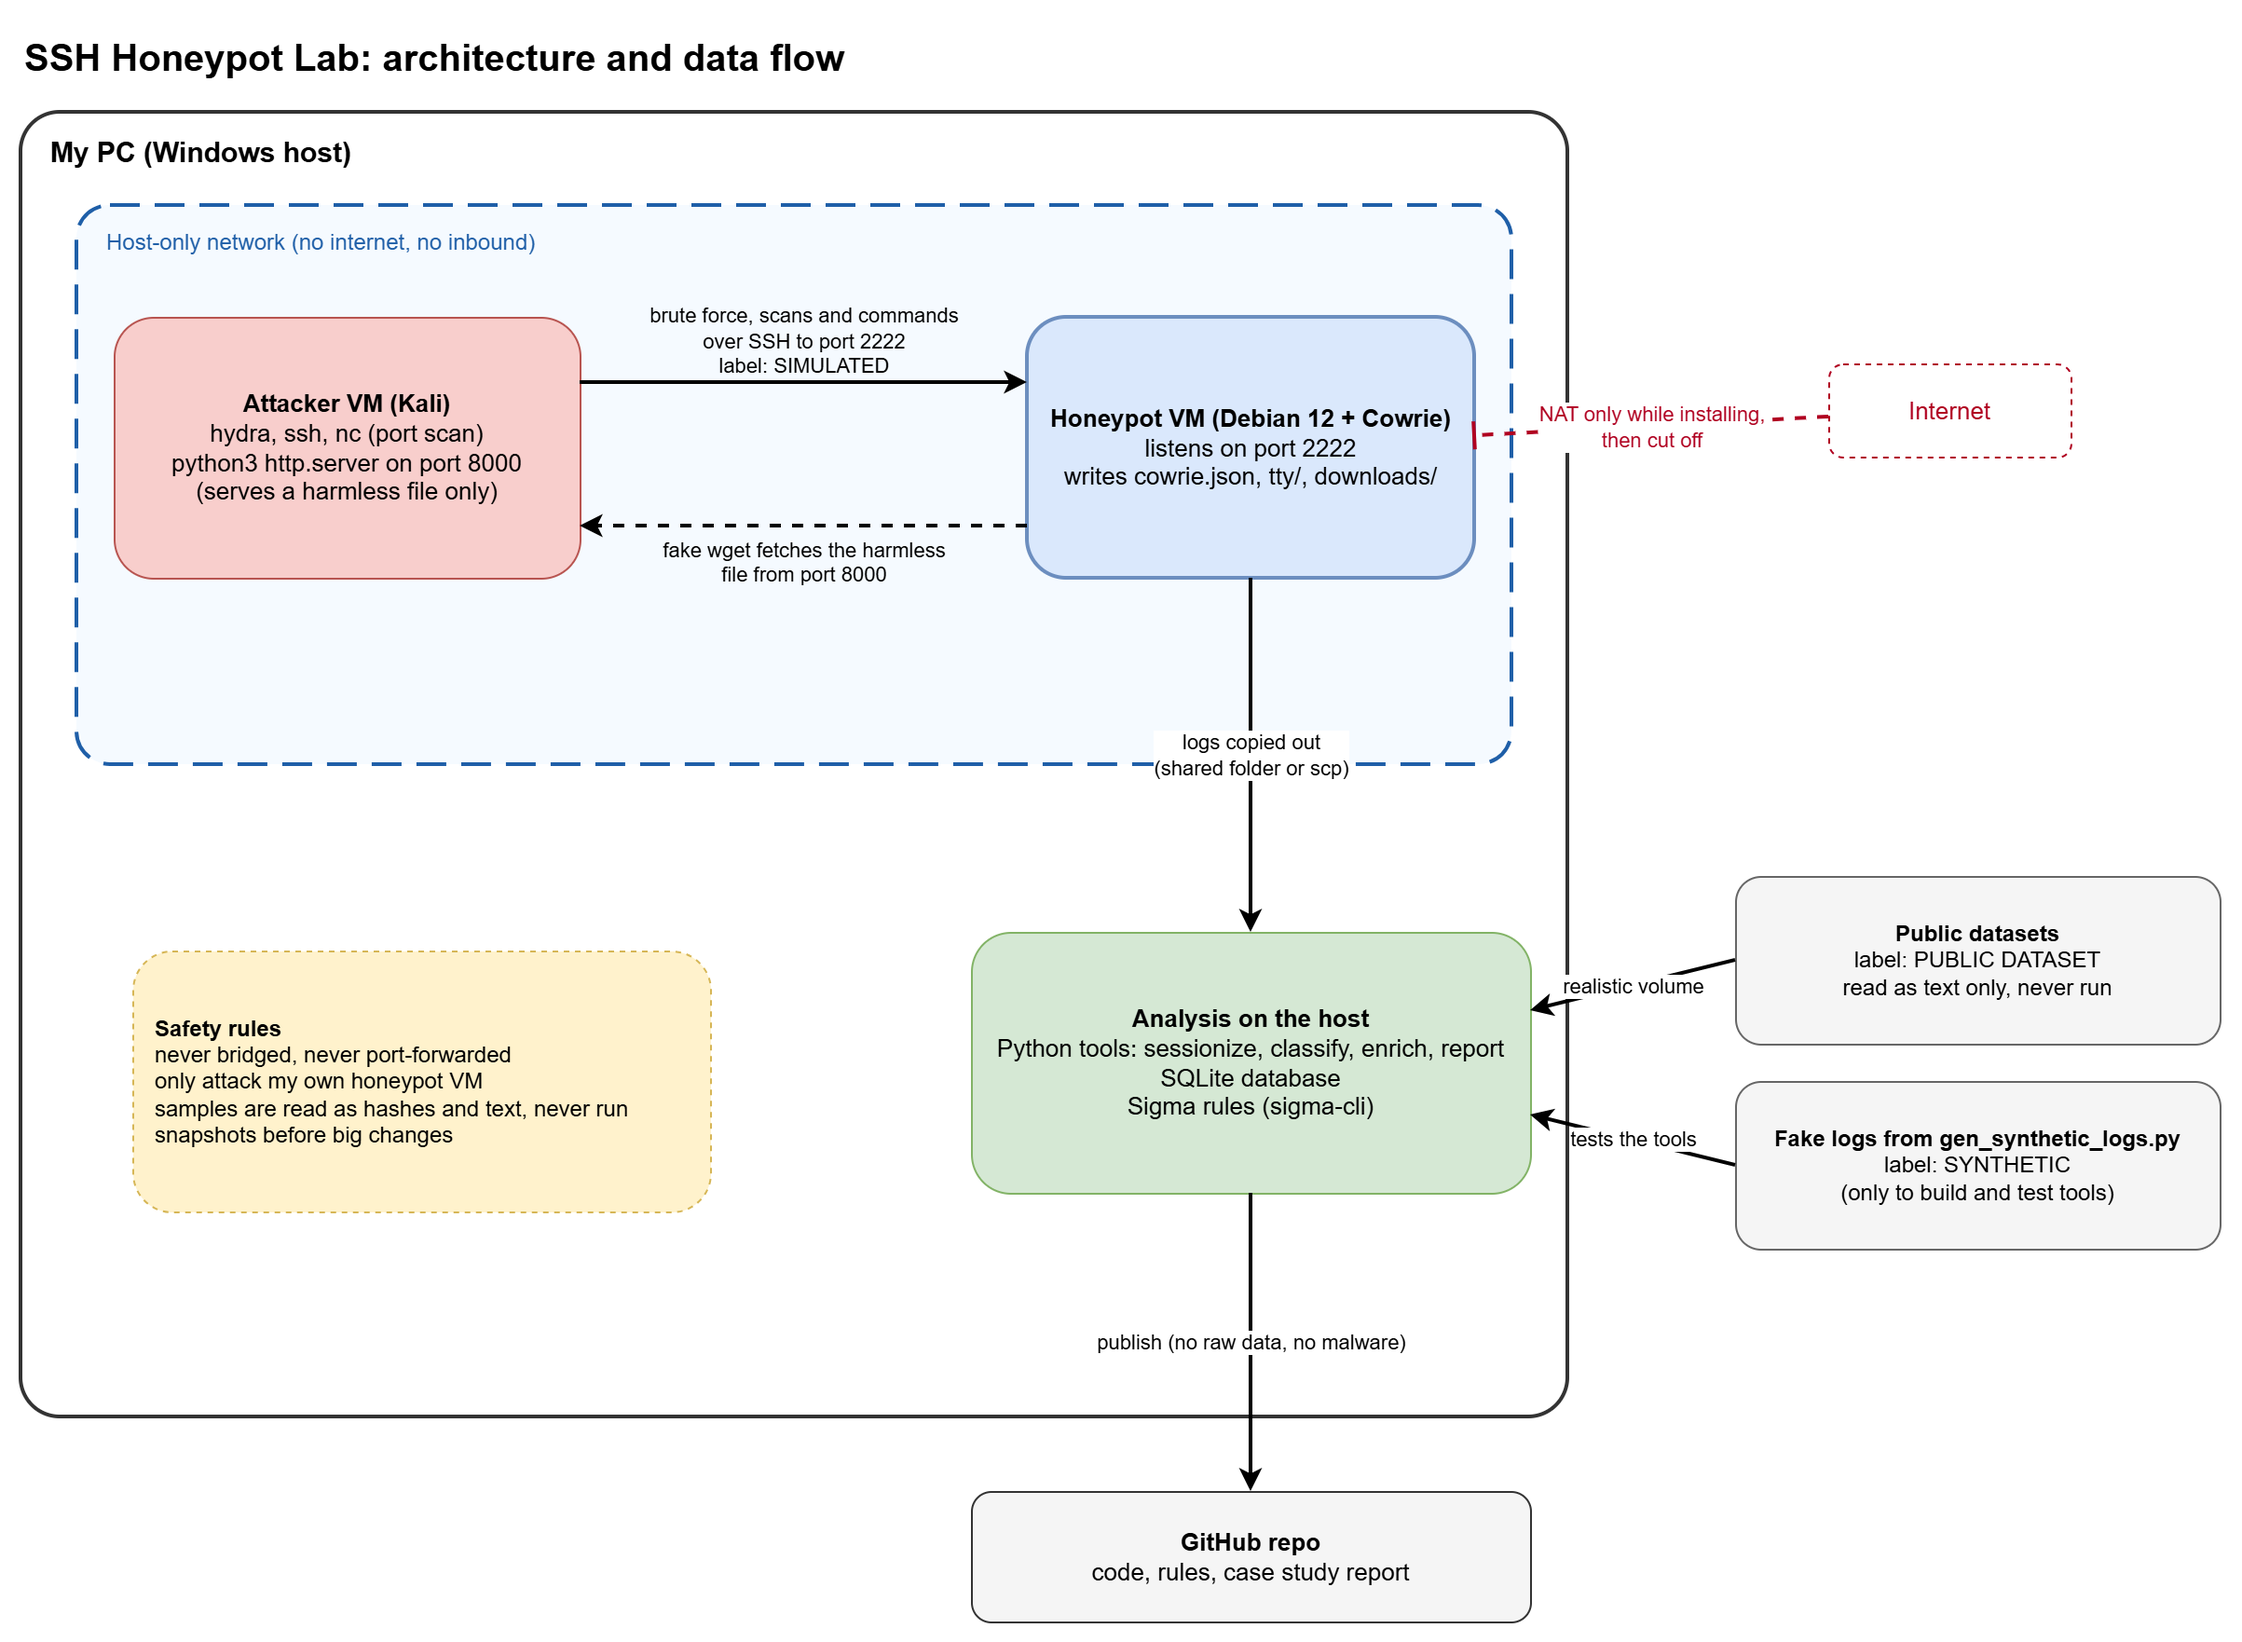
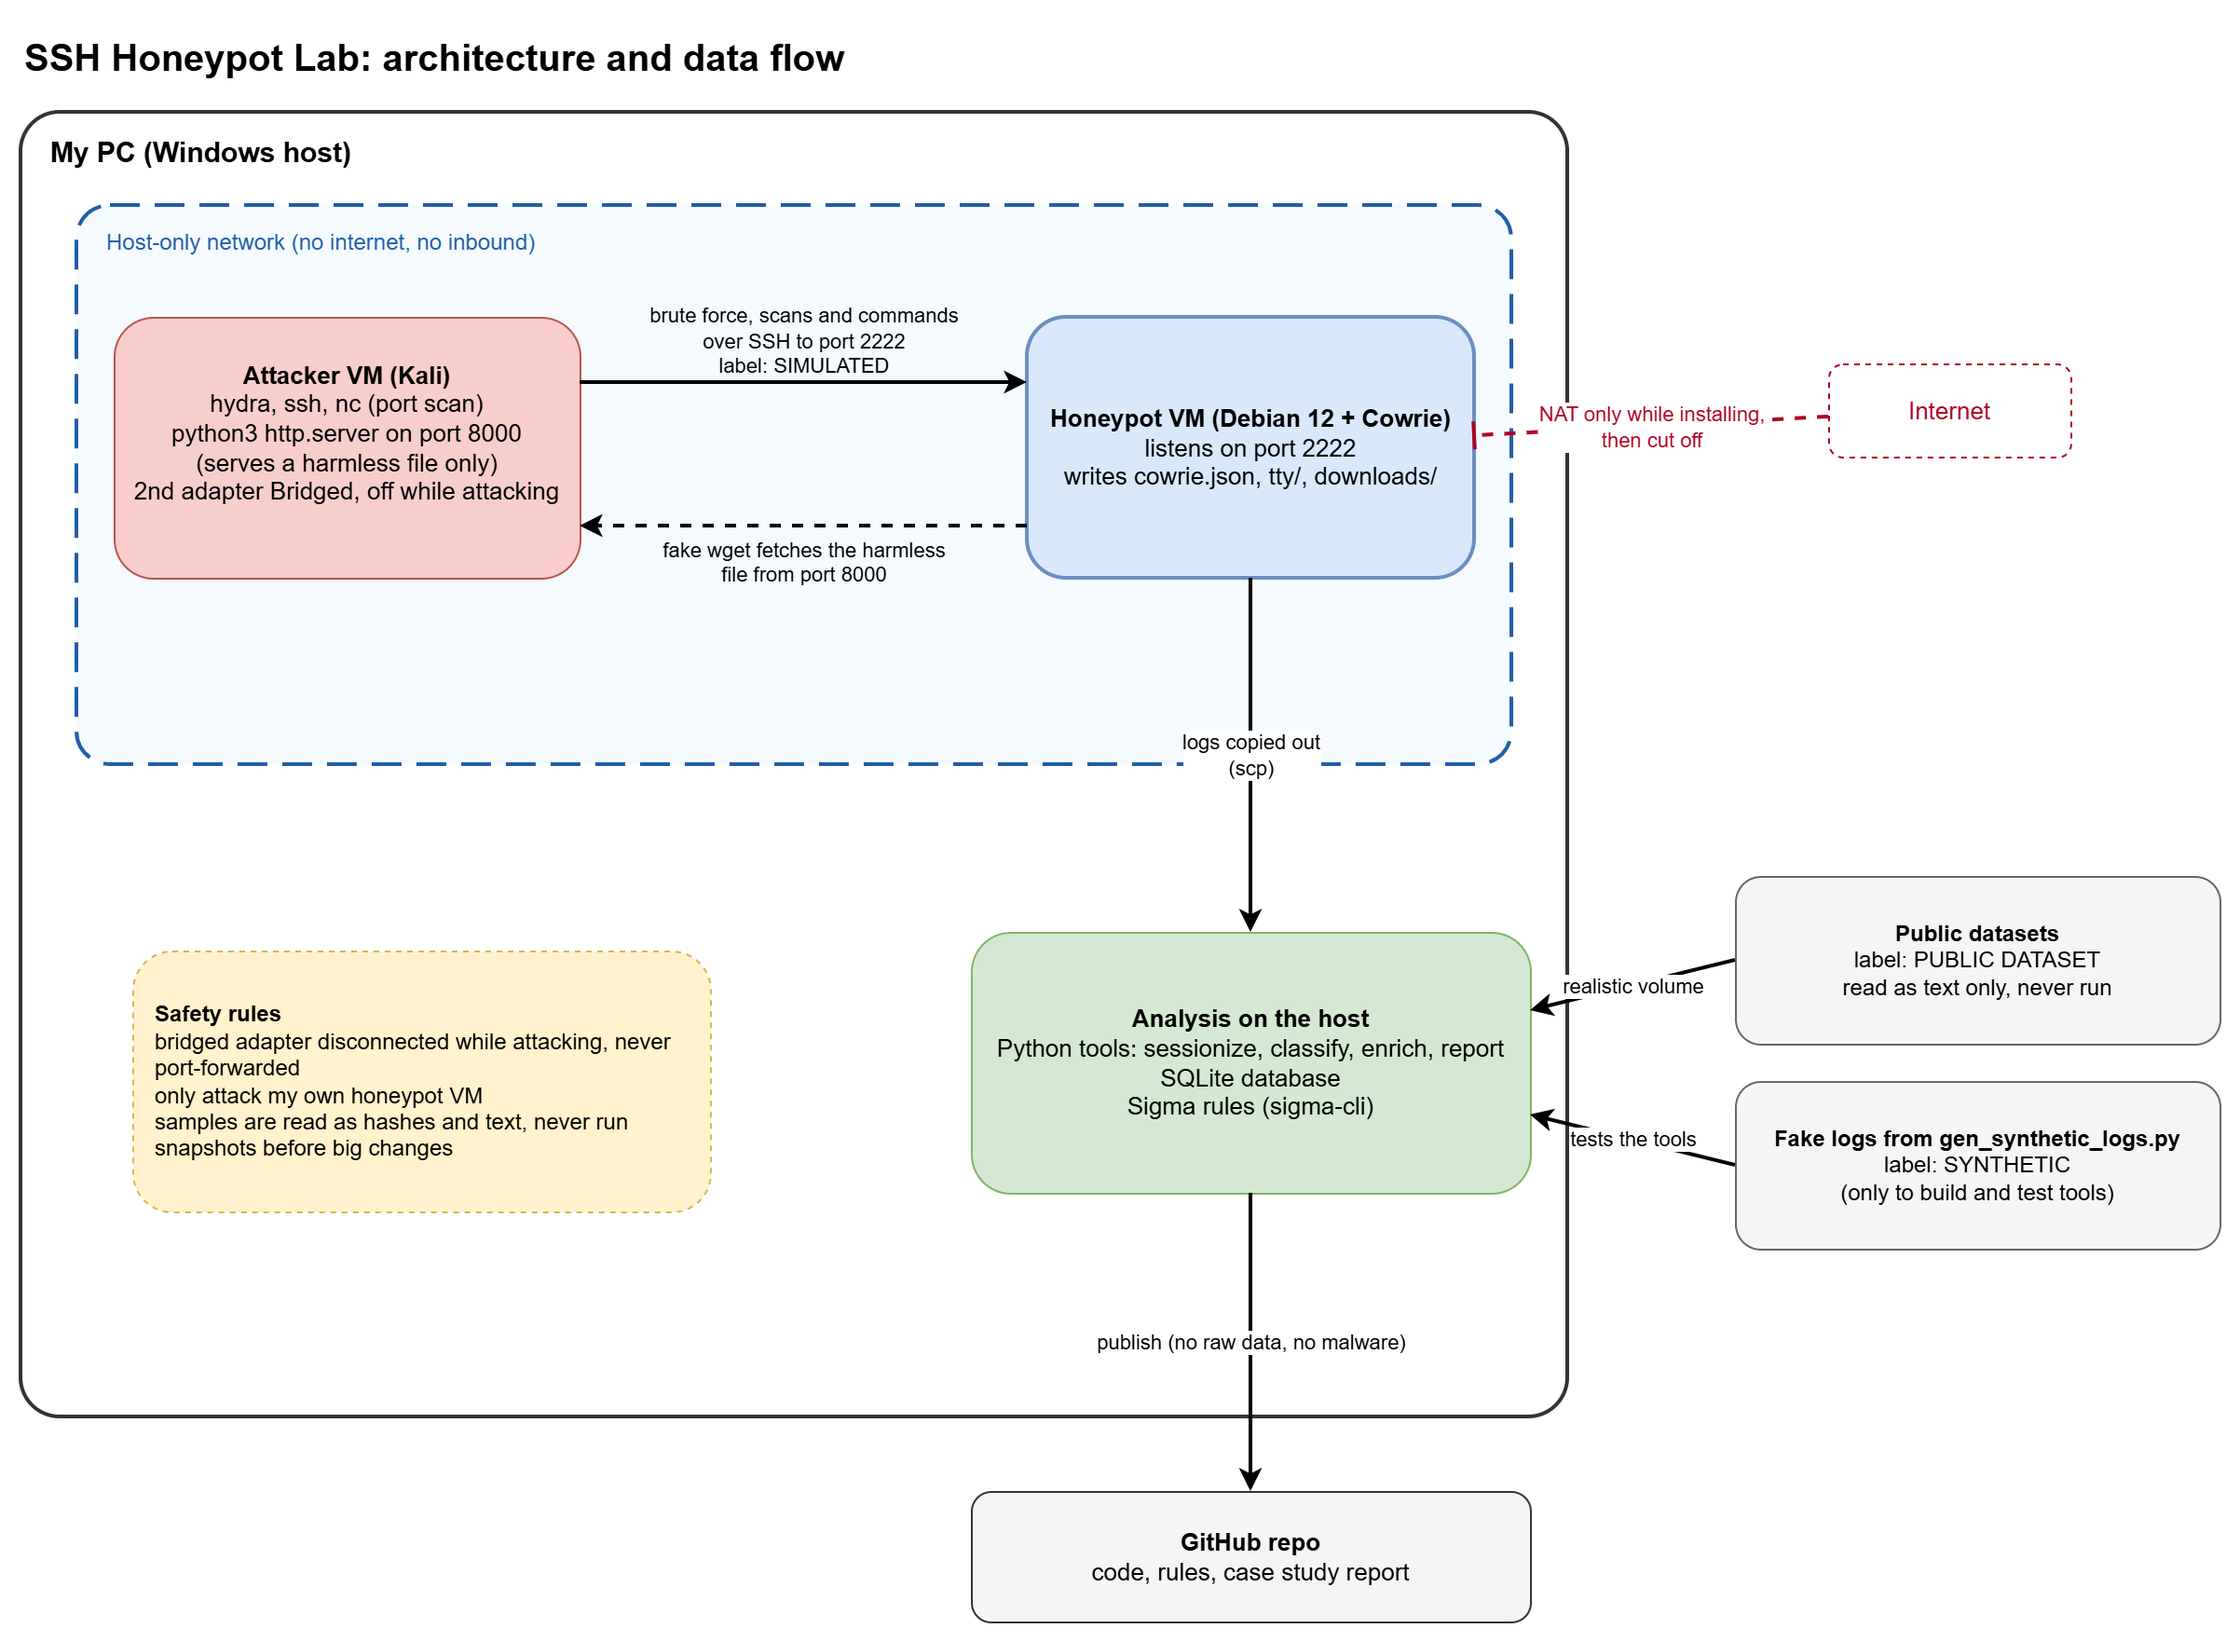
updating my architecture notes

diff --git a/docs/architecture.md b/docs/architecture.md
@@ -1,25 +1,33 @@
 # Architecture and Flow
 
 ## Setup
+
 I have a Windows host machine and inside it there are 2 VMs.
 
 ## Attacker VM
-One is the attacker Kali. From there I will use hydra and ssh and nc to perform the attacks. I also run a small python http.server with a harmless file on it so the fake wget inside the Cowrie shell has something to fetch.
+
+One is the attacker Kali. From there I will use hydra and ssh and nc to perform the attacks. I will also run a small python http.server with a harmless file on it so the fake wget inside the Cowrie shell has something to fetch. It is bound to the host-only address only.
 
 ## Honeypot VM
-The other is a Debian machine. I install it first with internet through NAT and then cut the internet off. Cowrie is set up on this Debian VM and listens on port 2222. Everything the attacker does is logged there in `cowrie.json` and `tty/` and `downloads/`.
+
+The other is a Debian machine. I install it first with internet through NAT and then cut the internet off. Cowrie is set up on this Debian VM and listens on port 2222. Everything the attacker does is logged there in `cowrie.json` and `tty/` and `downloads/`. Cowrie has its own login rules in `userdb.txt` so only two accounts get in and every other login is refused.
 
 ## Network
-Both VMs are on a host-only network. The Debian one has no internet as I will be attacking it in a local environment. The attacker VM reaches it over that host-only network.
+
+Both VMs are on a host-only network. The Debian one has no internet as I will be attacking it in a local environment. The attacker VM reaches it over that host-only network. Kali also keeps a second adapter that is Bridged and I disconnect it before the attacks.
 
 ## Analysis
-I copy the logs from the Debian VM to my host with a shared folder or scp. Then I run scripts on the host to clean and analyze the data and to test them.
+
+I copy the logs from the Debian VM to my host with scp. Then I run scripts on the host to clean and analyze the data and to test them.
 
 ## Datasets
+
 I will get some public datasets too and generate fake ones with Python too. I label all data as SIMULATED or PUBLIC DATASET or SYNTHETIC.
 
 ## Publishing
+
 Then I do a case study analysis and publish it on GitHub.
 
 ## Diagram
+
 ![Architecture diagram](architecture.png)
